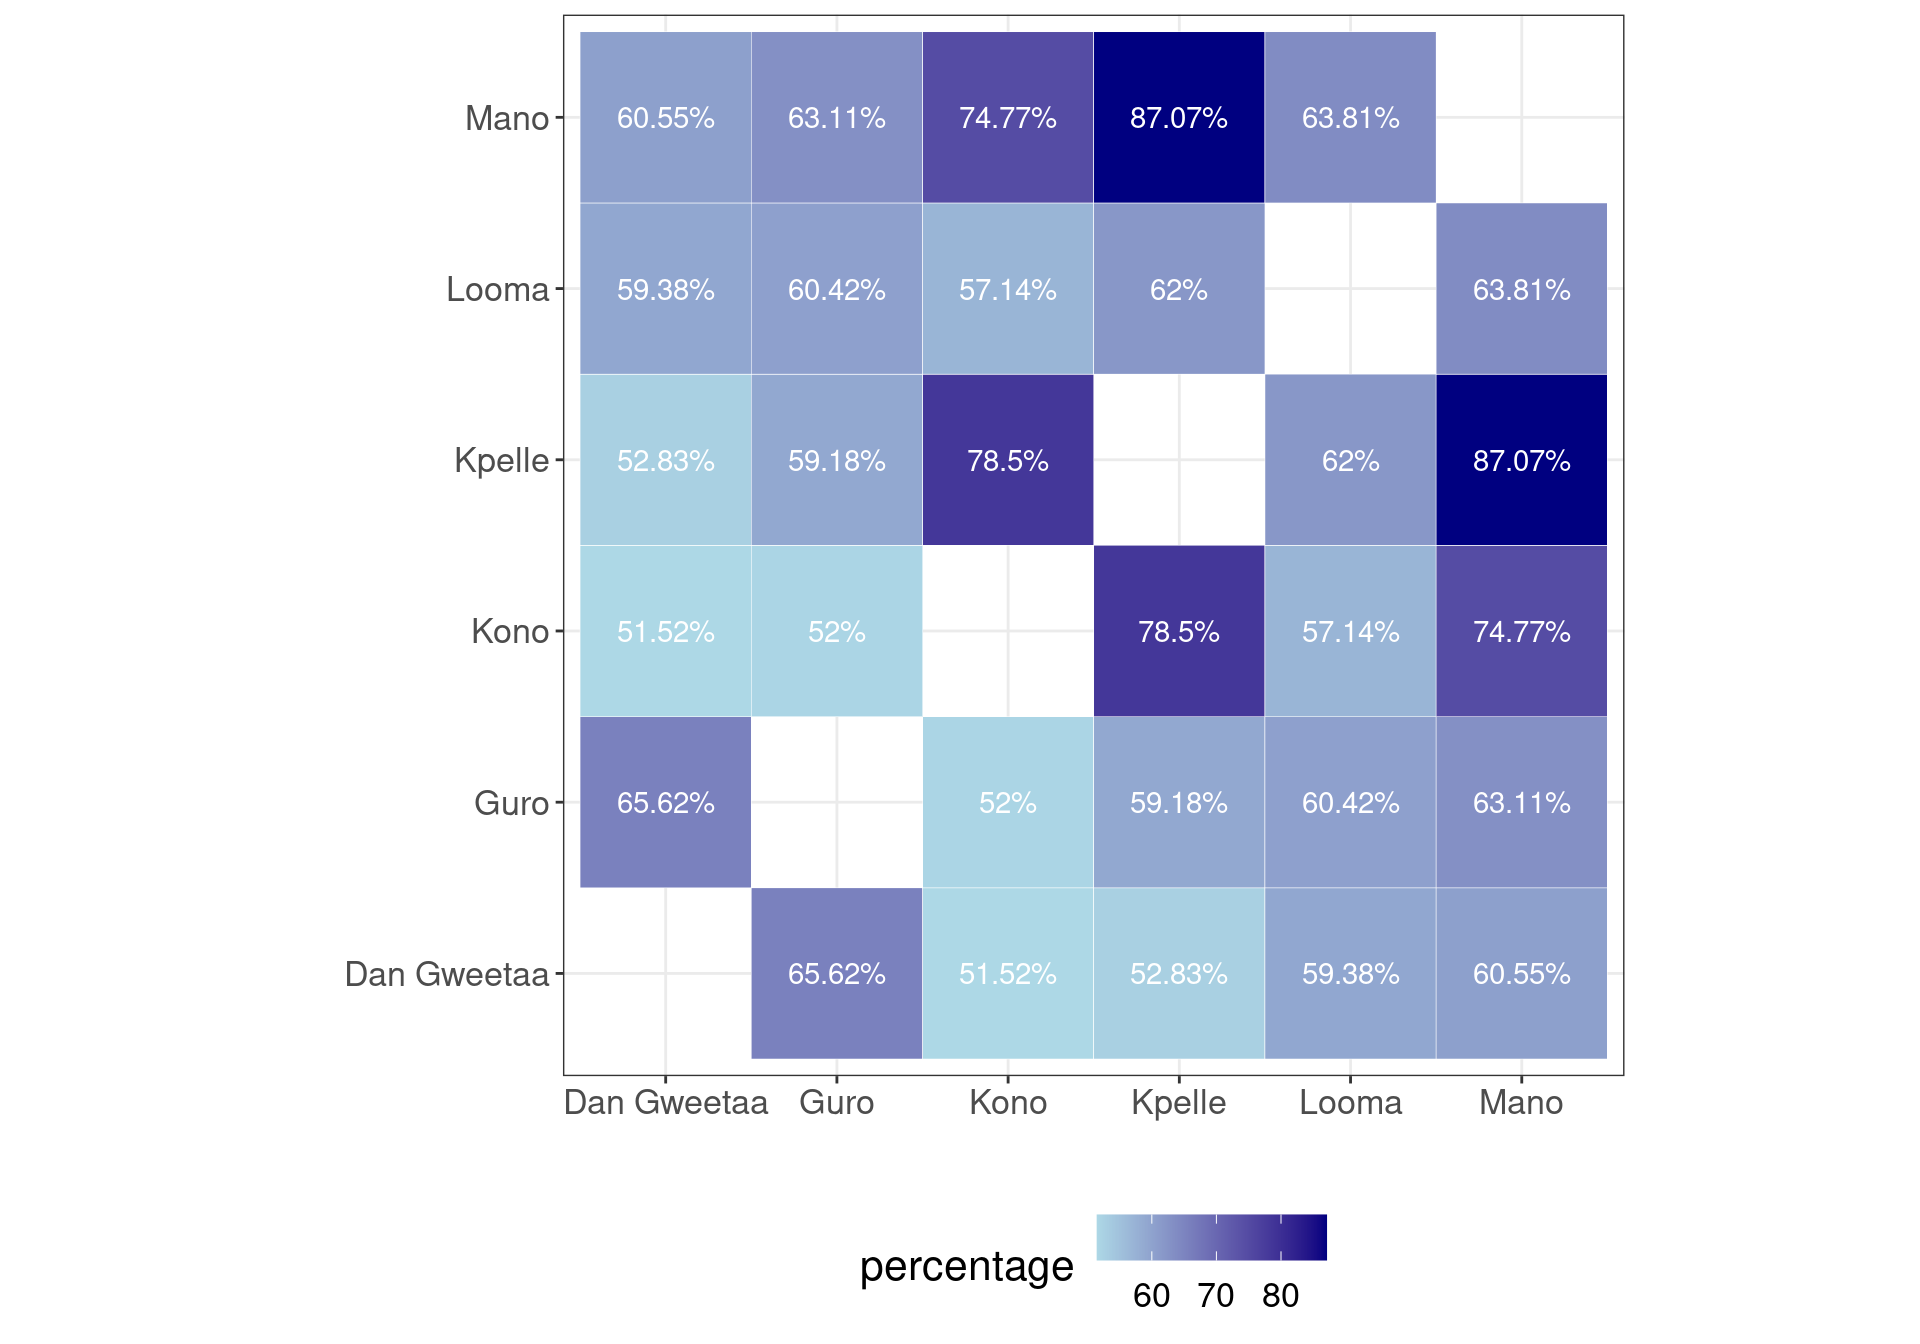
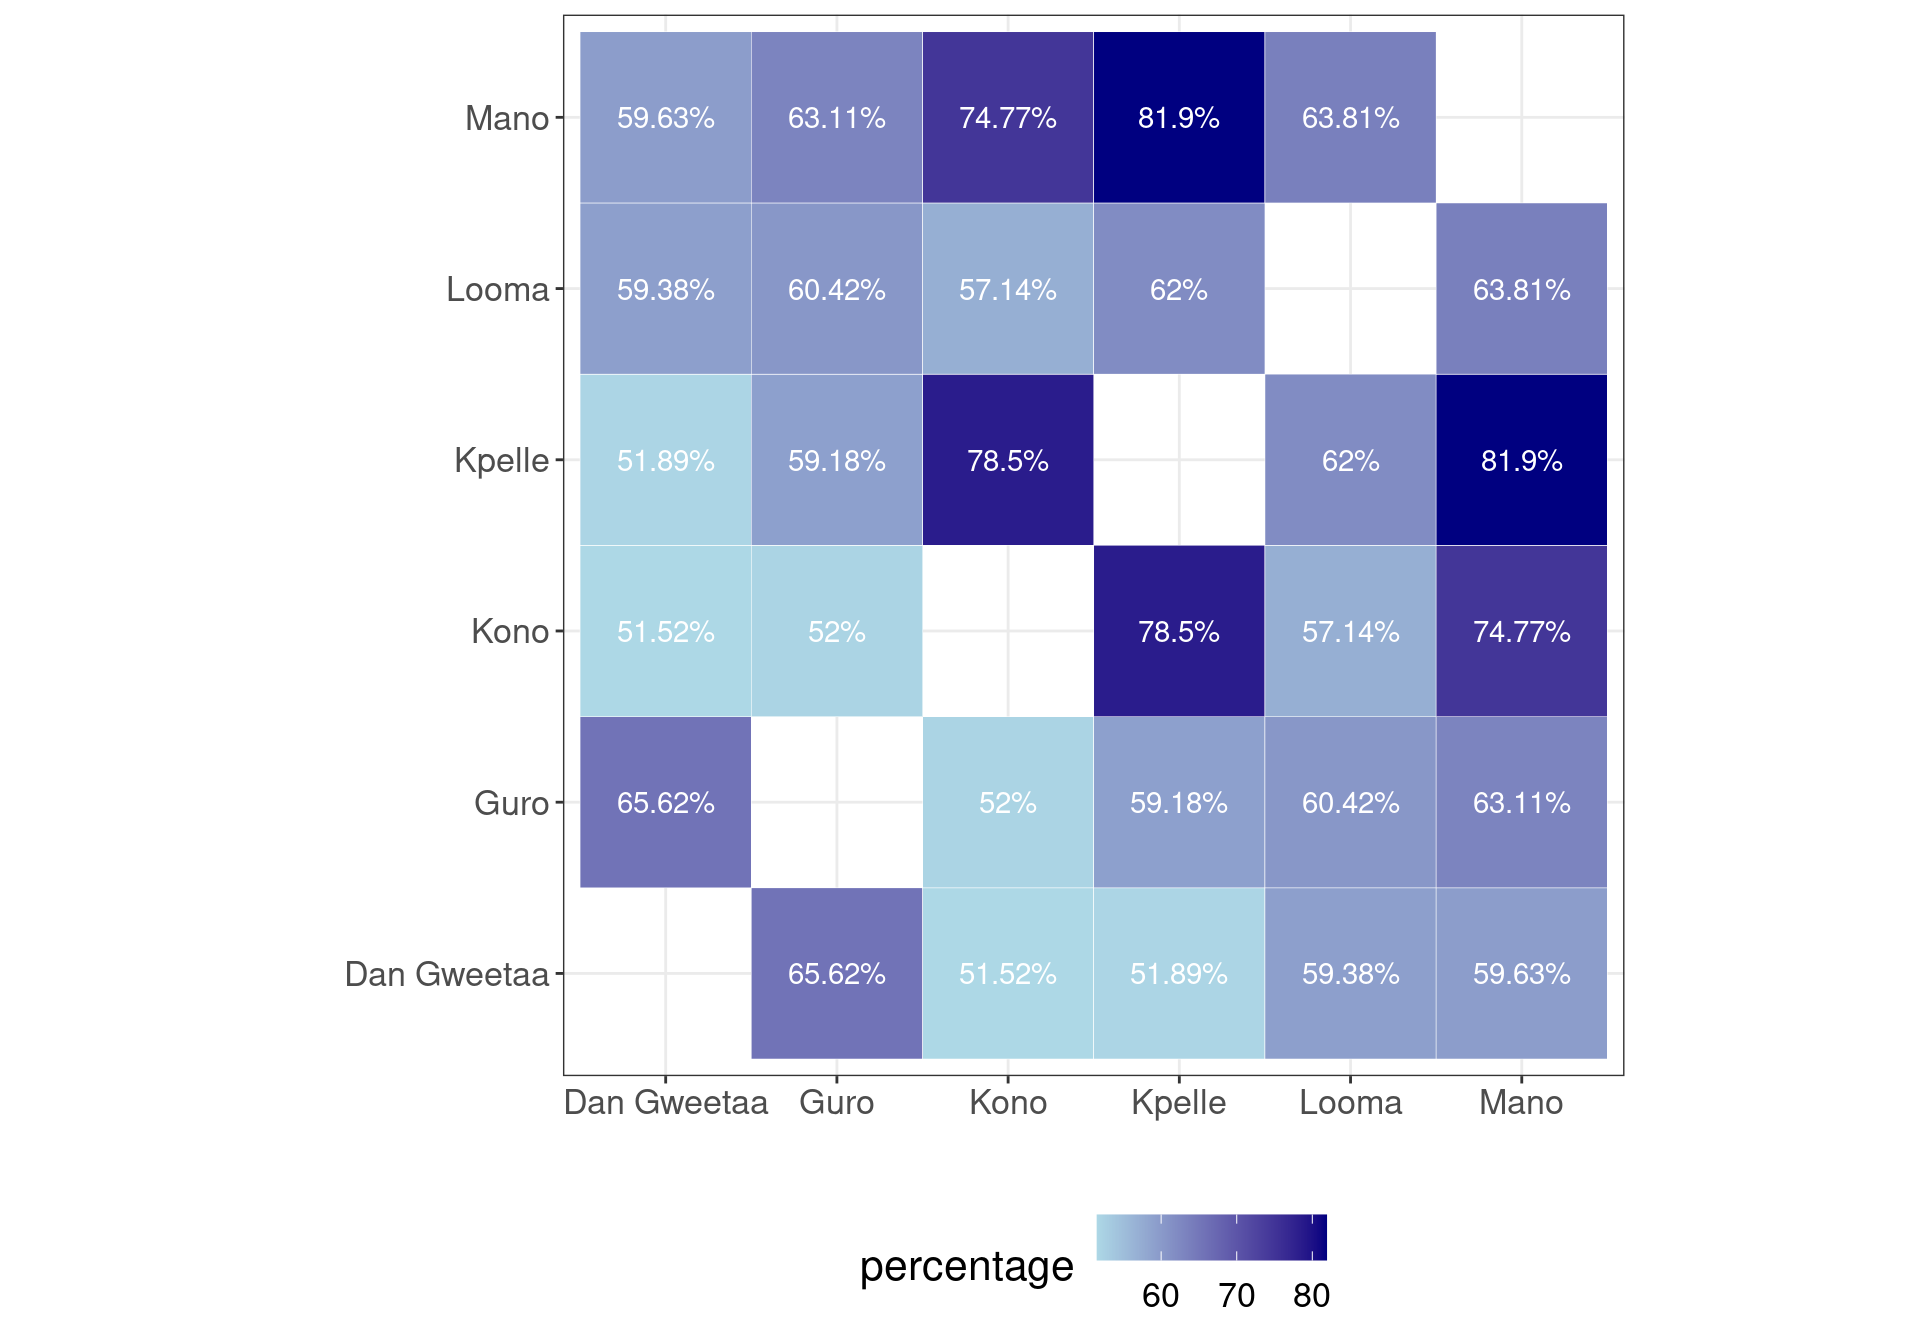
update

diff --git a/index.html b/index.html
@@ -311,14 +311,15 @@ code span.wa { color: #60a0b0; font-weight: bold; font-style: italic; } /* Warni
 <span id="cb5-4"><a href="#cb5-4" aria-hidden="true" tabindex="-1"></a>  <span class="fu">group_by</span>(number) <span class="sc">%&gt;%</span> </span>
 <span id="cb5-5"><a href="#cb5-5" aria-hidden="true" tabindex="-1"></a>  <span class="fu">arrange</span>(language) <span class="sc">%&gt;%</span> </span>
 <span id="cb5-6"><a href="#cb5-6" aria-hidden="true" tabindex="-1"></a>  <span class="fu">pairwise_count</span>(language, extended_construction) <span class="sc">%&gt;%</span> </span>
-<span id="cb5-7"><a href="#cb5-7" aria-hidden="true" tabindex="-1"></a>  <span class="fu">group_by</span>(item1, item2) <span class="sc">%&gt;%</span> </span>
-<span id="cb5-8"><a href="#cb5-8" aria-hidden="true" tabindex="-1"></a>  <span class="fu">summarise</span>(<span class="at">n =</span> <span class="fu">sum</span>(n)) <span class="ot">-&gt;</span></span>
-<span id="cb5-9"><a href="#cb5-9" aria-hidden="true" tabindex="-1"></a>  df_pairwise_within_construction</span>
-<span id="cb5-10"><a href="#cb5-10" aria-hidden="true" tabindex="-1"></a></span>
-<span id="cb5-11"><a href="#cb5-11" aria-hidden="true" tabindex="-1"></a>df_pairwise_within_construction <span class="sc">%&gt;%</span></span>
-<span id="cb5-12"><a href="#cb5-12" aria-hidden="true" tabindex="-1"></a>  <span class="fu">pivot_wider</span>(<span class="at">names_from =</span> item2, <span class="at">values_from =</span> n) <span class="sc">%&gt;%</span> </span>
-<span id="cb5-13"><a href="#cb5-13" aria-hidden="true" tabindex="-1"></a>  <span class="fu">arrange</span>(item1) <span class="sc">%&gt;%</span> </span>
-<span id="cb5-14"><a href="#cb5-14" aria-hidden="true" tabindex="-1"></a>  <span class="fu">select</span>(item1, Dan_Gweetaa, Guro, Kono, Kpelle, Looma, Mano) </span></code><button title="Copy to Clipboard" class="code-copy-button"><i class="bi"></i></button></pre></div>
+<span id="cb5-7"><a href="#cb5-7" aria-hidden="true" tabindex="-1"></a>  <span class="fu">mutate</span>(<span class="at">n =</span> <span class="dv">1</span>) <span class="sc">%&gt;%</span> <span class="co"># to unify</span></span>
+<span id="cb5-8"><a href="#cb5-8" aria-hidden="true" tabindex="-1"></a>  <span class="fu">group_by</span>(item1, item2) <span class="sc">%&gt;%</span> </span>
+<span id="cb5-9"><a href="#cb5-9" aria-hidden="true" tabindex="-1"></a>  <span class="fu">summarise</span>(<span class="at">n =</span> <span class="fu">sum</span>(n)) <span class="ot">-&gt;</span></span>
+<span id="cb5-10"><a href="#cb5-10" aria-hidden="true" tabindex="-1"></a>  df_pairwise_within_construction</span>
+<span id="cb5-11"><a href="#cb5-11" aria-hidden="true" tabindex="-1"></a></span>
+<span id="cb5-12"><a href="#cb5-12" aria-hidden="true" tabindex="-1"></a>df_pairwise_within_construction <span class="sc">%&gt;%</span></span>
+<span id="cb5-13"><a href="#cb5-13" aria-hidden="true" tabindex="-1"></a>  <span class="fu">pivot_wider</span>(<span class="at">names_from =</span> item2, <span class="at">values_from =</span> n) <span class="sc">%&gt;%</span> </span>
+<span id="cb5-14"><a href="#cb5-14" aria-hidden="true" tabindex="-1"></a>  <span class="fu">arrange</span>(item1) <span class="sc">%&gt;%</span> </span>
+<span id="cb5-15"><a href="#cb5-15" aria-hidden="true" tabindex="-1"></a>  <span class="fu">select</span>(item1, Dan_Gweetaa, Guro, Kono, Kpelle, Looma, Mano) </span></code><button title="Copy to Clipboard" class="code-copy-button"><i class="bi"></i></button></pre></div>
 </details>
 <div class="cell-output-display">
 <div class="kable-table">
@@ -340,9 +341,9 @@ code span.wa { color: #60a0b0; font-weight: bold; font-style: italic; } /* Warni
 <td style="text-align: right;">NA</td>
 <td style="text-align: right;">63</td>
 <td style="text-align: right;">51</td>
-<td style="text-align: right;">56</td>
+<td style="text-align: right;">55</td>
 <td style="text-align: right;">57</td>
-<td style="text-align: right;">66</td>
+<td style="text-align: right;">65</td>
 </tr>
 <tr class="even">
 <td style="text-align: left;">Guro</td>
@@ -364,12 +365,12 @@ code span.wa { color: #60a0b0; font-weight: bold; font-style: italic; } /* Warni
 </tr>
 <tr class="even">
 <td style="text-align: left;">Kpelle</td>
-<td style="text-align: right;">56</td>
+<td style="text-align: right;">55</td>
 <td style="text-align: right;">58</td>
 <td style="text-align: right;">84</td>
 <td style="text-align: right;">NA</td>
 <td style="text-align: right;">62</td>
-<td style="text-align: right;">101</td>
+<td style="text-align: right;">95</td>
 </tr>
 <tr class="odd">
 <td style="text-align: left;">Looma</td>
@@ -382,10 +383,10 @@ code span.wa { color: #60a0b0; font-weight: bold; font-style: italic; } /* Warni
 </tr>
 <tr class="even">
 <td style="text-align: left;">Mano</td>
-<td style="text-align: right;">66</td>
+<td style="text-align: right;">65</td>
 <td style="text-align: right;">65</td>
 <td style="text-align: right;">83</td>
-<td style="text-align: right;">101</td>
+<td style="text-align: right;">95</td>
 <td style="text-align: right;">67</td>
 <td style="text-align: right;">NA</td>
 </tr>
@@ -426,9 +427,9 @@ code span.wa { color: #60a0b0; font-weight: bold; font-style: italic; } /* Warni
 <td style="text-align: right;">NA</td>
 <td style="text-align: right;">65.625</td>
 <td style="text-align: right;">51.515</td>
-<td style="text-align: right;">52.830</td>
+<td style="text-align: right;">51.887</td>
 <td style="text-align: right;">59.375</td>
-<td style="text-align: right;">60.550</td>
+<td style="text-align: right;">59.633</td>
 </tr>
 <tr class="even">
 <td style="text-align: left;">Guro</td>
@@ -450,12 +451,12 @@ code span.wa { color: #60a0b0; font-weight: bold; font-style: italic; } /* Warni
 </tr>
 <tr class="even">
 <td style="text-align: left;">Kpelle</td>
-<td style="text-align: right;">52.830</td>
+<td style="text-align: right;">51.887</td>
 <td style="text-align: right;">59.184</td>
 <td style="text-align: right;">78.505</td>
 <td style="text-align: right;">NA</td>
 <td style="text-align: right;">62.000</td>
-<td style="text-align: right;">87.069</td>
+<td style="text-align: right;">81.897</td>
 </tr>
 <tr class="odd">
 <td style="text-align: left;">Looma</td>
@@ -468,10 +469,10 @@ code span.wa { color: #60a0b0; font-weight: bold; font-style: italic; } /* Warni
 </tr>
 <tr class="even">
 <td style="text-align: left;">Mano</td>
-<td style="text-align: right;">60.550</td>
+<td style="text-align: right;">59.633</td>
 <td style="text-align: right;">63.107</td>
 <td style="text-align: right;">74.775</td>
-<td style="text-align: right;">87.069</td>
+<td style="text-align: right;">81.897</td>
 <td style="text-align: right;">63.810</td>
 <td style="text-align: right;">NA</td>
 </tr>
@@ -2896,7 +2897,7 @@ code span.wa { color: #60a0b0; font-weight: bold; font-style: italic; } /* Warni
 <span id="cb29-4"><a href="#cb29-4" aria-hidden="true" tabindex="-1"></a>         <span class="sc">!</span><span class="fu">is.na</span>(adposition)) <span class="sc">%&gt;%</span>  </span>
 <span id="cb29-5"><a href="#cb29-5" aria-hidden="true" tabindex="-1"></a>  <span class="fu">group_by</span>(number) <span class="sc">%&gt;%</span> </span>
 <span id="cb29-6"><a href="#cb29-6" aria-hidden="true" tabindex="-1"></a>  <span class="fu">mutate</span>(<span class="at">adposition =</span> <span class="fu">str_c</span>(language, <span class="st">"__"</span>, adposition)) <span class="sc">%&gt;%</span> </span>
-<span id="cb29-7"><a href="#cb29-7" aria-hidden="true" tabindex="-1"></a>  widyr<span class="sc">::</span><span class="fu">pairwise_count</span>(adposition, extended_construction)  <span class="sc">%&gt;%</span> </span>
+<span id="cb29-7"><a href="#cb29-7" aria-hidden="true" tabindex="-1"></a>  <span class="fu">pairwise_count</span>(adposition, extended_construction)  <span class="sc">%&gt;%</span></span>
 <span id="cb29-8"><a href="#cb29-8" aria-hidden="true" tabindex="-1"></a>  <span class="fu">group_by</span>(item1, item2) <span class="sc">%&gt;%</span> </span>
 <span id="cb29-9"><a href="#cb29-9" aria-hidden="true" tabindex="-1"></a>  <span class="fu">summarise</span>(<span class="at">n =</span> <span class="fu">sum</span>(n)) <span class="sc">%&gt;%</span> </span>
 <span id="cb29-10"><a href="#cb29-10" aria-hidden="true" tabindex="-1"></a>  <span class="fu">arrange</span>(<span class="fu">desc</span>(n))</span></code><button title="Copy to Clipboard" class="code-copy-button"><i class="bi"></i></button></pre></div>
